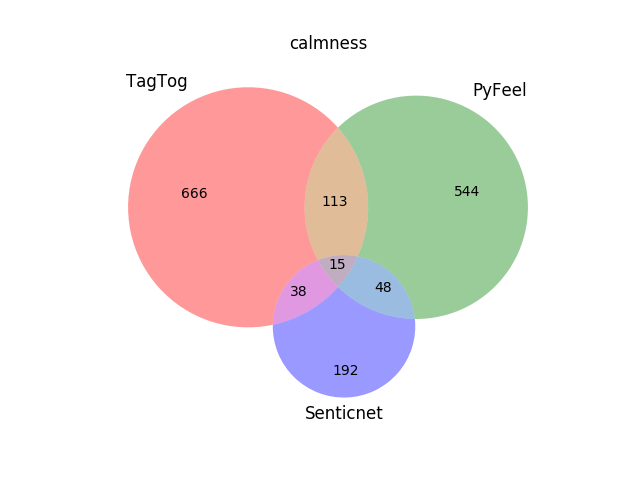
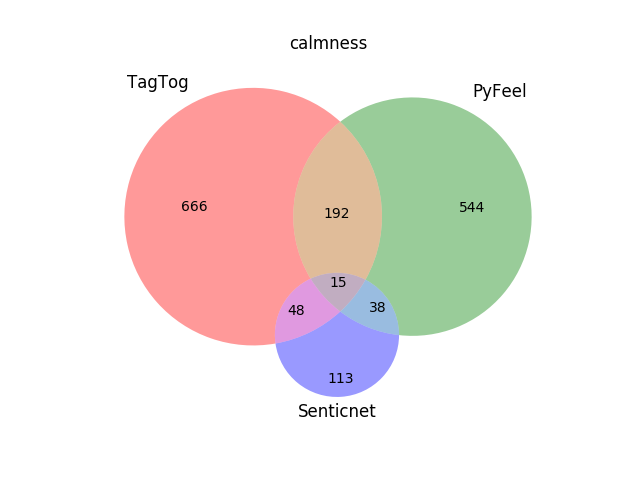
turn angry into anger

diff --git a/evalfeel.py b/evalfeel.py
@@ -147,11 +147,12 @@ class EvalFeel:
         self.df = self.df.replace('serenity', 'calmness')
         self.df = self.df.replace('grief', 'sadness')
         self.df = self.df.replace('melancholy', 'sadness')
-        self.df = self.df.replace('anger', 'angry')
-        self.df = self.df.replace('annoyance', 'angry')
+        self.df = self.df.replace('annoyance', 'anger')
+        self.df = self.df.replace('angry', 'anger')
         self.df = self.df.replace('rage', 'angry')
         self.df = self.df.replace('acceptance', 'pleasantness')
         self.df = self.df.replace('delight', 'pleasantness')
+        self.df = self.df.replace('pleasantness', 'surprise')
         self.df = self.df.replace('enthusiasm', 'eagerness')
         self.df = self.df.replace('responsiveness', 'eagerness')
 
@@ -175,7 +176,7 @@ class EvalFeel:
             np.array([[em, n1, n2, n3, (len(inter1)), (len(inter3)), (len(inter2)), (len(inter4))]]),
             columns=['Emotion', 'TagTog', 'PyFeel', 'Senticnet', 'T-P', 'T-S', 'P-S', 'T-P-S'])
         # Creation of the Venn diagram
-        venn3(subsets=(n1, n2, n3, len(inter1), len(inter2), len(inter3), len(inter4)),
+        venn3(subsets=(n1, n2,len(inter1), n3, len(inter3), len(inter2), len(inter4)),
               set_labels=('TagTog', 'PyFeel', 'Senticnet'))
         plt.title(em)
         plt.savefig('png/'+em+'.png')

diff --git a/main.py b/main.py
@@ -4,3 +4,4 @@ from evalfeel import *
 if __name__ == '__main__':
     f = EvalFeel()
     f.make_all_stats()
+
